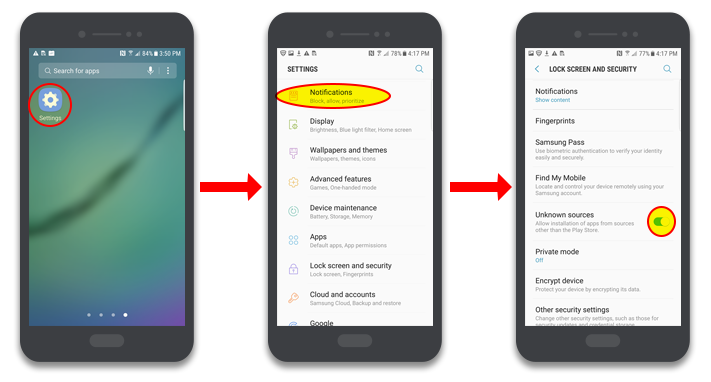
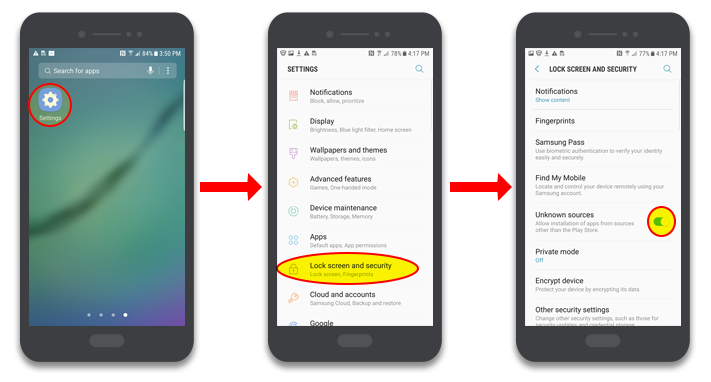
updates incorrect img with correct one and most recent page 2 changes

Changed region(s): [[0.3713, 0.6623, 0.5879, 0.7487], [0.3713, 0.2016, 0.557, 0.288]]

diff --git a/pages/android/step2.html b/pages/android/step2.html
@@ -53,6 +53,10 @@
     <img class="step_img" src="../../assets/mobile/02_Amazon Appstore_2.png"/>
 
     <h2>Downloading the Amazon Appstore</h2>
+    <span>
+      You can use the link below to download the Amazon Appstore.
+    </span>
+    <div class="field"><span>http://bit.ly/getcoins101</span></div>
 
 
   </body>

diff --git a/assets/final.css b/assets/final.css
@@ -113,4 +113,14 @@ img {
   display: block;
   margin: 0 auto; }
 
+.field {
+  display: block;
+  margin: auto;
+  background: white;
+  height: 30px;
+  width: 300px;
+  border: 1px grey solid; }
+  .field span {
+    text-align: center; }
+
 /*# sourceMappingURL=final.css.map */

diff --git a/assets/raw.scss b/assets/raw.scss
@@ -158,3 +158,15 @@ img {
   display: block;
   margin: 0 auto;
 }
+
+.field {
+  display: block;
+  margin: auto;
+  background: white;
+  height: 30px;
+  width: 300px;
+  border: 1px grey solid;
+  span {
+    text-align: center;
+  }
+}
